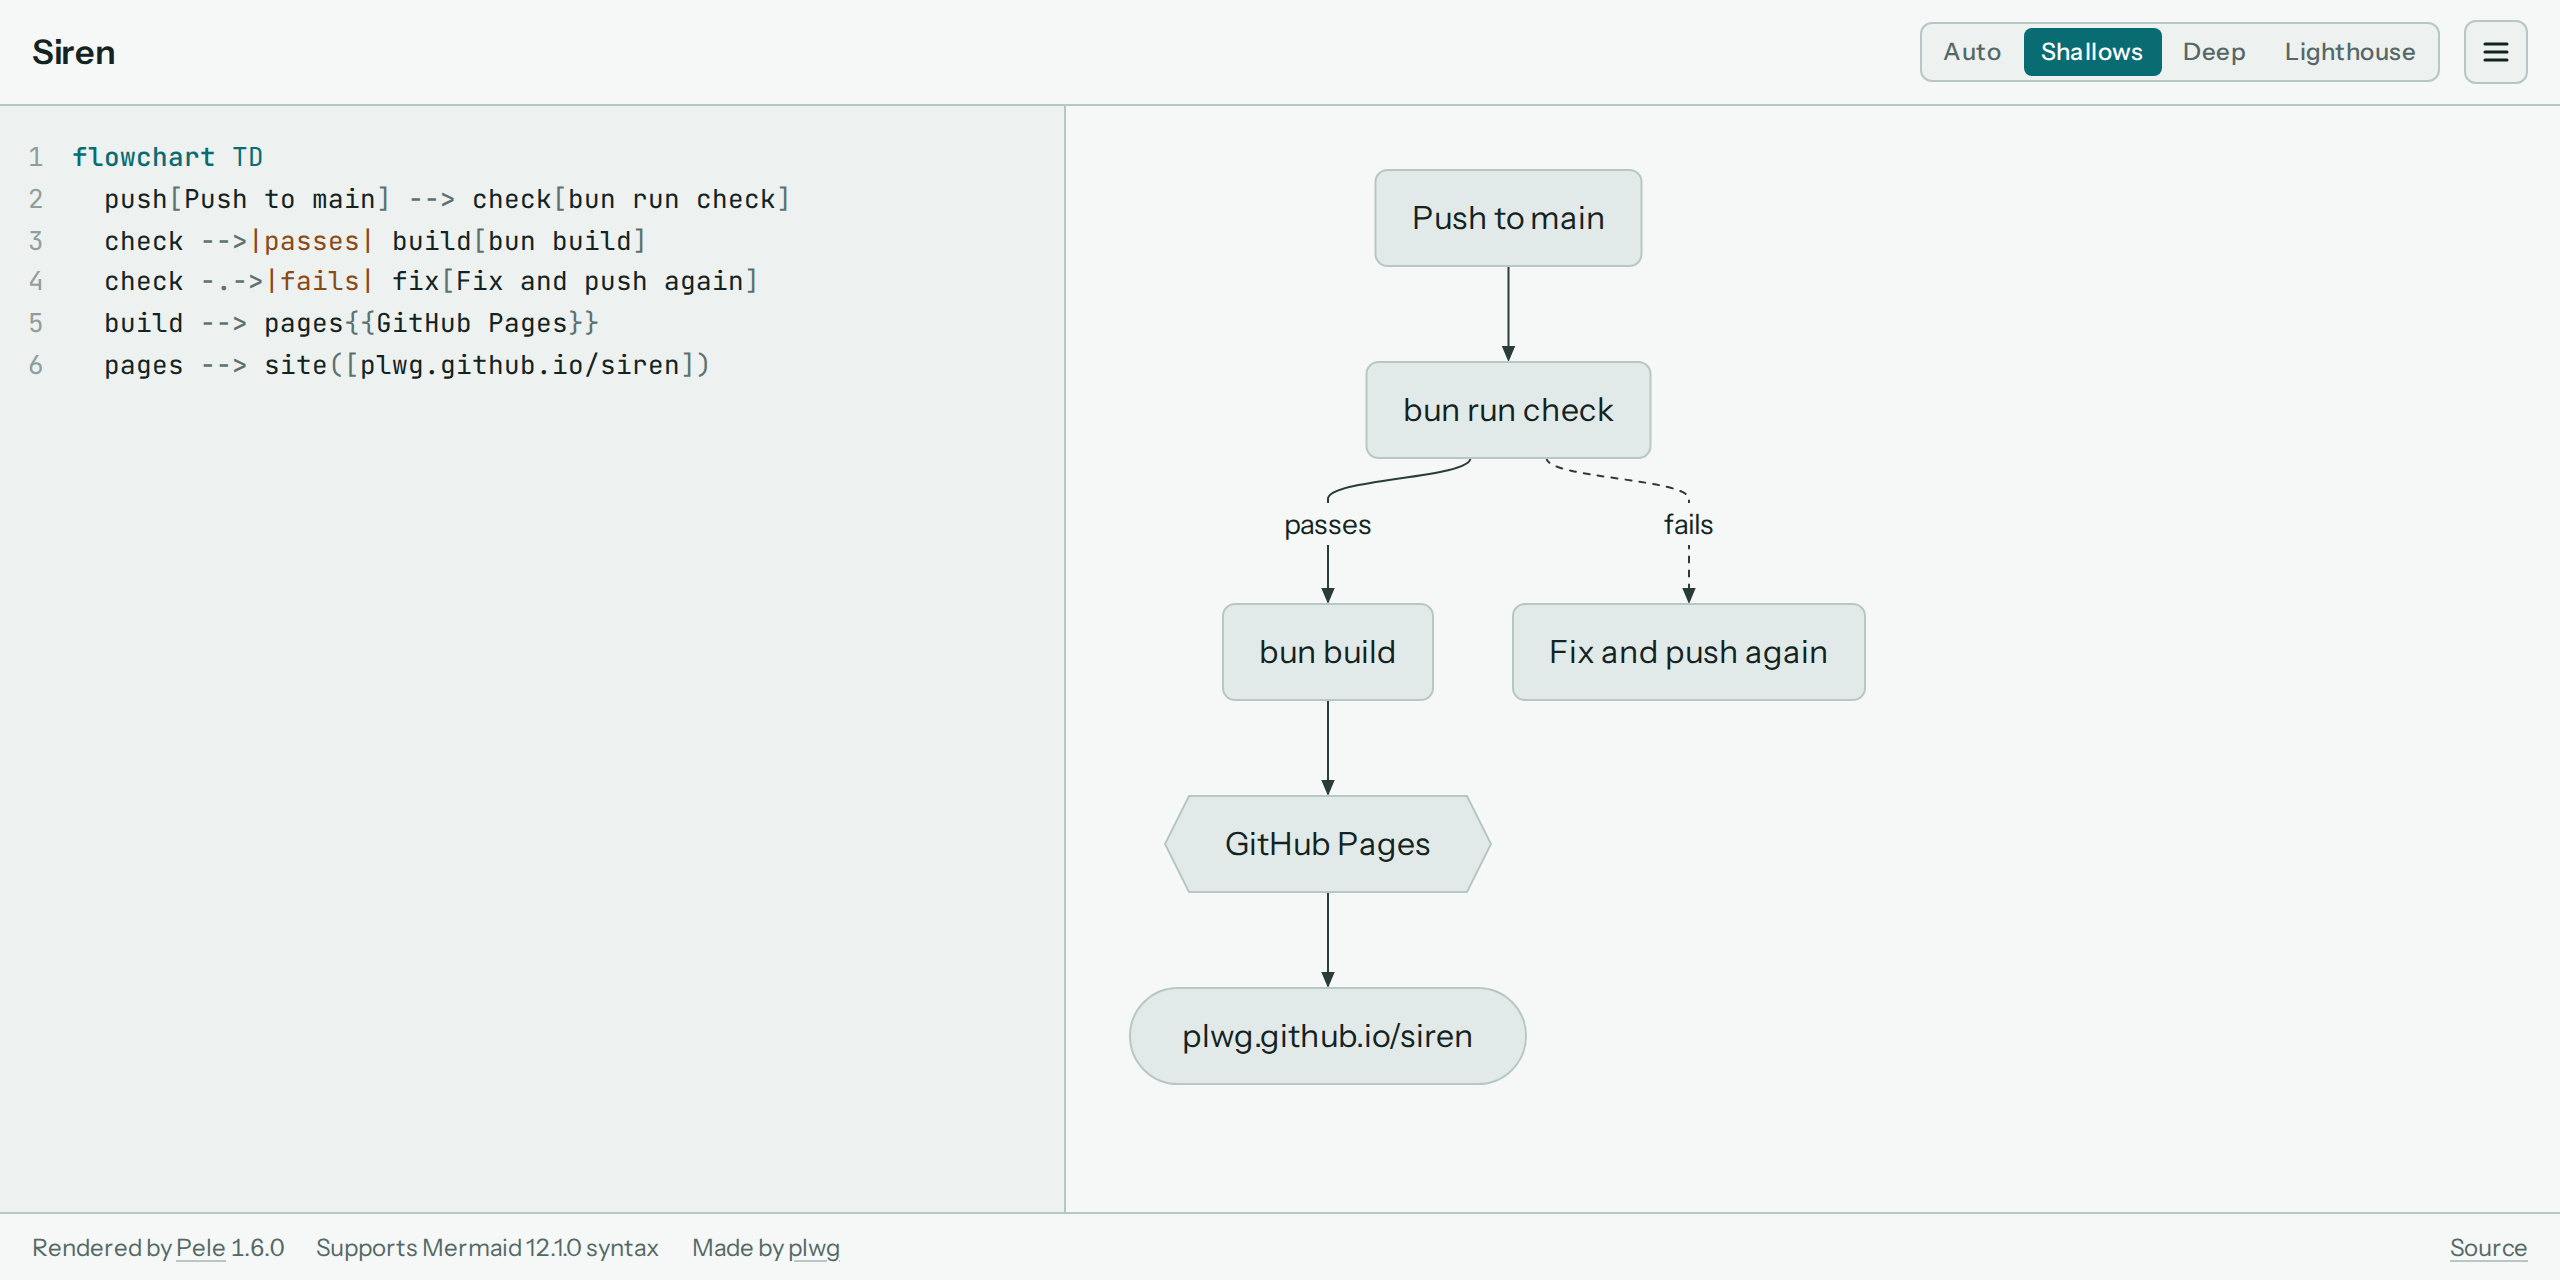
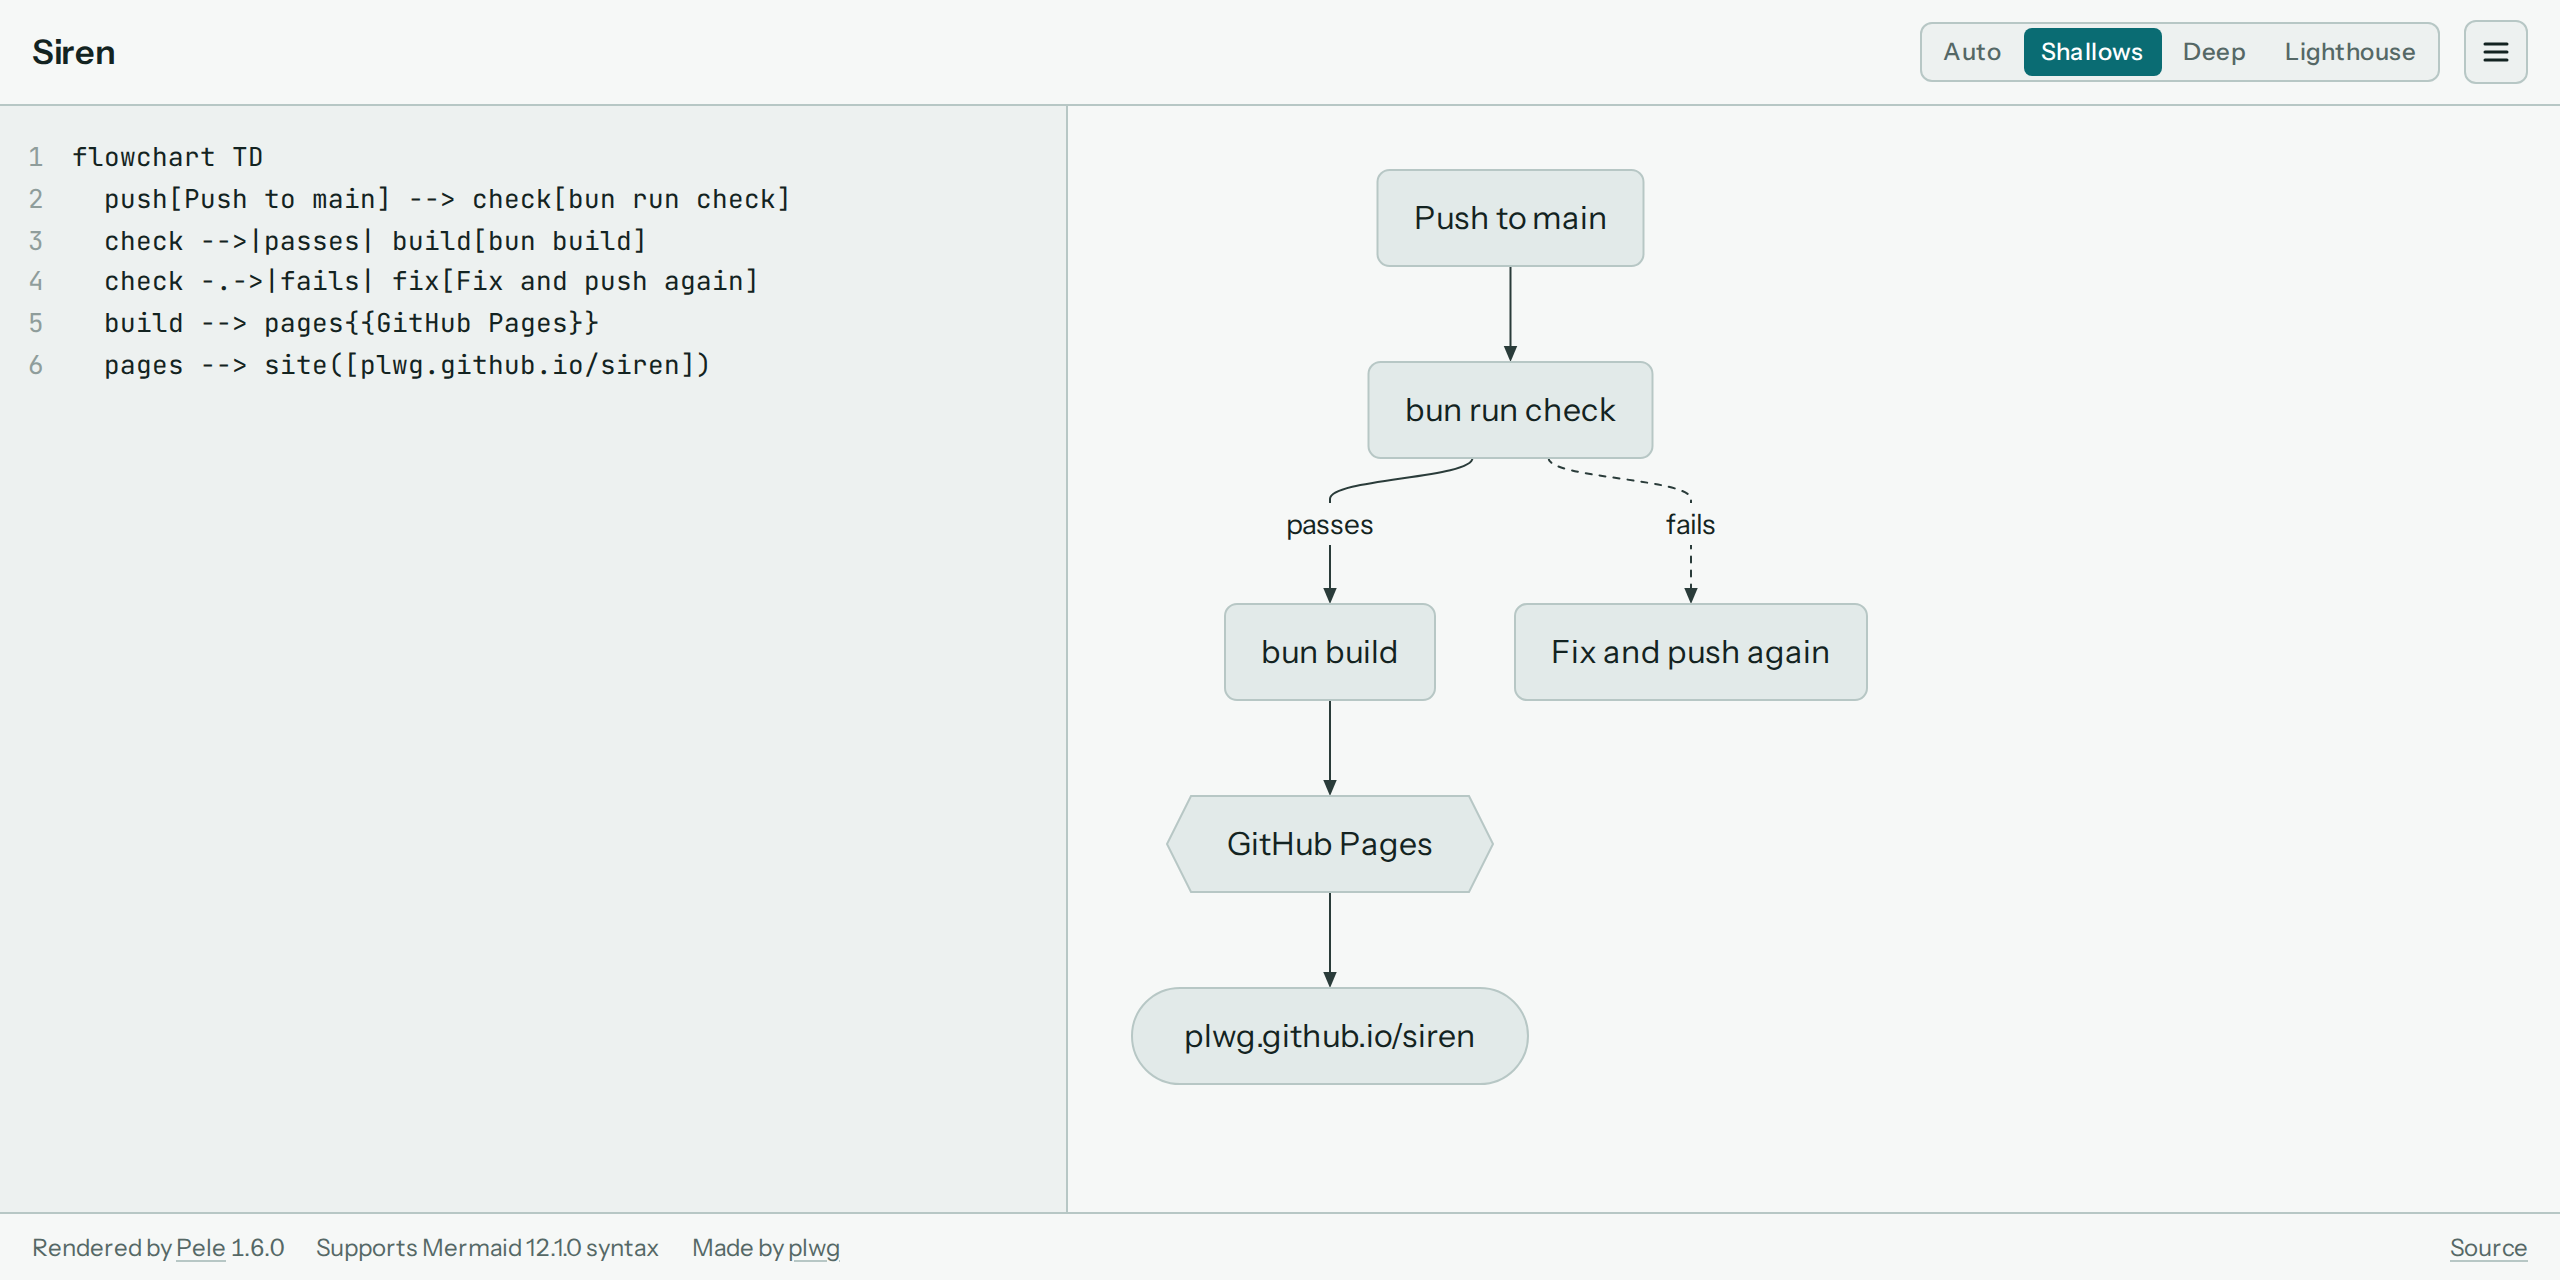
Remove syntax highlighting from the editor
The textarea shows its own text again. The layer behind it now only
carries line numbers and the error band. This also removes the regular
expression lookbehinds, which older Safari can't run.

diff --git a/index.html b/index.html
@@ -48,10 +48,8 @@
     --warning: #8a5a00;
     --focus: #0a6c73;
     --stroke: 1px;
-    --code-keyword: #0a6c73;
-    --code-string: #8a4a13;
-    --code-quiet: #5d716f;
-    --code-error: color-mix(in srgb, #b3261e 13%, transparent);
+    --line-number: #5d716f;
+    --error-band: color-mix(in srgb, #b3261e 13%, transparent);
 
     --font-ui: "Instrument Sans", ui-sans-serif, system-ui, sans-serif;
     --font-mono: "JetBrains Mono", ui-monospace, "SFMono-Regular", Menlo, monospace;
@@ -74,10 +72,8 @@
     --critical: #f28b82;
     --warning: #e3b55c;
     --focus: #5ec2c3;
-    --code-keyword: #5ec2c3;
-    --code-string: #e6c07b;
-    --code-quiet: #8fa2a0;
-    --code-error: color-mix(in srgb, #f28b82 18%, transparent);
+    --line-number: #8fa2a0;
+    --error-band: color-mix(in srgb, #f28b82 18%, transparent);
     color-scheme: dark;
   }
   :root[data-theme="contrast"] {
@@ -96,10 +92,8 @@
     --warning: #ffb347;
     --focus: #ffd60a;
     --stroke: 2px;
-    --code-keyword: #ffd60a;
-    --code-string: #7fdbff;
-    --code-quiet: #d9d9d9;
-    --code-error: color-mix(in srgb, #ff8a80 30%, transparent);
+    --line-number: #d9d9d9;
+    --error-band: color-mix(in srgb, #ff8a80 30%, transparent);
     color-scheme: dark;
   }
 
@@ -250,8 +244,8 @@
     outline: none;
   }
   .resizing { cursor: col-resize; user-select: none; }
-  /* The editor: a textarea with transparent text over a highlighted copy with line numbers (see
-     src/editor.ts). Every rule that affects where text wraps applies to both layers alike. */
+  /* The editor: a textarea over an invisible copy of its text that carries line numbers and the
+     error band (see src/editor.ts). Every rule that affects where text wraps applies to both. */
   .editor {
     --gutter: calc(var(--digits, 1) * 1ch + 28px);
     position: relative;
@@ -276,16 +270,15 @@
     overflow-wrap: anywhere;
     scrollbar-gutter: stable;
   }
-  .editor > pre { overflow: hidden; color: var(--fg); pointer-events: none; counter-reset: line; }
+  .editor > pre { overflow: hidden; color: transparent; pointer-events: none; counter-reset: line; }
   .editor > textarea {
     resize: none;
     overflow: auto;
     background: transparent;
-    color: transparent;
+    color: var(--fg);
     caret-color: var(--accent);
   }
   .editor > textarea:focus-visible { outline: none; box-shadow: inset 0 0 0 2px var(--focus); }
-  .editor > textarea::selection { background: color-mix(in srgb, var(--accent) 30%, transparent); color: transparent; }
   /* Each line reaches back into the gutter, so its number and any error band sit with it. The
      equal negative margin and padding leave the width text wraps in unchanged. */
   .editor .line {
@@ -301,17 +294,11 @@
     left: 0;
     width: calc(var(--gutter) - 14px);
     text-align: right;
-    color: var(--code-quiet);
+    color: var(--line-number);
     opacity: 0.65;
   }
-  .editor .line.error { background: var(--code-error); }
+  .editor .line.error { background: var(--error-band); }
   .editor .line.error::before { color: var(--critical); opacity: 1; font-weight: 500; }
-  .tok-type { color: var(--code-keyword); font-weight: 500; }
-  .tok-keyword { color: var(--code-keyword); }
-  .tok-string, .tok-label { color: var(--code-string); }
-  .tok-arrow { color: var(--code-quiet); font-weight: 500; }
-  .tok-punct { color: var(--code-quiet); }
-  .tok-comment { color: var(--code-quiet); font-style: italic; }
 
   #diagram {
     /* Pele's error snippets quote the source; show `-->` as typed, not as a ligature. */

diff --git a/tests/lines.test.ts b/tests/lines.test.ts
@@ -1,0 +1,33 @@
+import { expect, test } from 'bun:test';
+import { numberedLines } from '../src/lines';
+
+test('one block per line, with empty lines kept', () => {
+  const html = numberedLines('flowchart LR\n\n  A --> B\n');
+  expect(html.match(/<span class="line">/g)?.length).toBe(4);
+  expect(html).toContain('<span class="line"> </span>');
+  expect(numberedLines('')).toBe('<span class="line"> </span>');
+});
+
+test('HTML in the text is escaped', () => {
+  const html = numberedLines('flowchart LR\n  A["<img src=x onerror=alert(1)>"] --> B[<b>]');
+  expect(html).not.toContain('<img');
+  expect(html).not.toContain('<b>');
+  expect(html).toContain('&lt;img');
+});
+
+test('the error line is marked', () => {
+  const html = numberedLines('flowchart LR\n  A -->\n  B', 2);
+  expect(html.match(/<span class="line error">/g)?.length).toBe(1);
+  expect(html).toContain('<span class="line error">  A --&gt;</span>');
+});
+
+test('the text is unchanged apart from markup', () => {
+  const text = 'flowchart LR\n  A[x & y] -->|a < b| B\n  %% end';
+  const plain = numberedLines(text)
+    .replace(/<span class="line(?: error)?">/g, '\n')
+    .replace(/<[^>]+>/g, '')
+    .replace(/&lt;/g, '<')
+    .replace(/&gt;/g, '>')
+    .replace(/&amp;/g, '&');
+  expect(plain.slice(1)).toBe(text);
+});

diff --git a/src/editor.ts b/src/editor.ts
@@ -1,9 +1,9 @@
-import { highlight } from './highlight';
+import { numberedLines } from './lines';
 
 // The editor is a plain textarea, so typing, undo, selection and mobile keyboards behave as usual.
-// Behind it, a <pre> holds the same text highlighted, with line numbers; the textarea's own text is
-// transparent. Both must wrap identically: index.html gives them the same font, padding and
-// scrollbar room.
+// Behind it, a <pre> holds the same text, invisible, split into lines that carry line numbers and
+// mark the line with an error. Both must wrap identically: index.html gives them the same font,
+// padding and scrollbar room.
 
 export interface Editor {
   /** Redraws the backdrop, after the text was set from code. */
@@ -39,7 +39,7 @@ export function initEditor(textarea: HTMLTextAreaElement, backdrop: HTMLElement)
   let errorLine: number | null = null;
 
   const draw = (): void => {
-    backdrop.innerHTML = highlight(textarea.value, errorLine);
+    backdrop.innerHTML = numberedLines(textarea.value, errorLine);
     // The gutter fits the widest line number.
     container.style.setProperty('--digits', String(String(textarea.value.split('\n').length).length));
     sync();

diff --git a/src/lines.ts b/src/lines.ts
@@ -1,0 +1,17 @@
+// The editor's backdrop: the text again, one block per line, so each line can carry its number and
+// the line with an error can be marked. The textarea draws the text itself; here it is invisible
+// and only makes the lines wrap exactly as the textarea's do.
+
+const escapeHtml = (text: string): string => text.replace(/&/g, '&amp;').replace(/</g, '&lt;').replace(/>/g, '&gt;');
+
+/** The text as HTML, one `<span class="line">` per line. `errorLine` counts from 1. */
+export function numberedLines(text: string, errorLine: number | null = null): string {
+  return text
+    .split('\n')
+    .map((line, i) => {
+      const cls = i + 1 === errorLine ? 'line error' : 'line';
+      // An empty line still needs height; a space keeps it without changing how text wraps.
+      return `<span class="${cls}">${escapeHtml(line) || ' '}</span>`;
+    })
+    .join('');
+}

diff --git a/README.md b/README.md
@@ -19,7 +19,7 @@ Live at https://plwg.github.io/siren/
   </tr>
 </table>
 
-- Type Mermaid on the left; the diagram renders on the right. The editor highlights syntax, numbers lines, marks the line with an error, and strips the fences from a pasted ```` ```mermaid ```` block.
+- Type Mermaid on the left; the diagram renders on the right. The editor numbers lines, marks the line with an error, and strips the fences from a pasted ```` ```mermaid ```` block.
 - On wider screens, drag the divider between the editor and the diagram to resize them (arrow keys work when it's focused; double-click resets).
 - On phones, **Code** and **Diagram** tabs show one at a time at full height; the theme switcher and credits move into the ☰ menu.
 - The diagram is saved in the URL, compressed, so a link always carries it.
